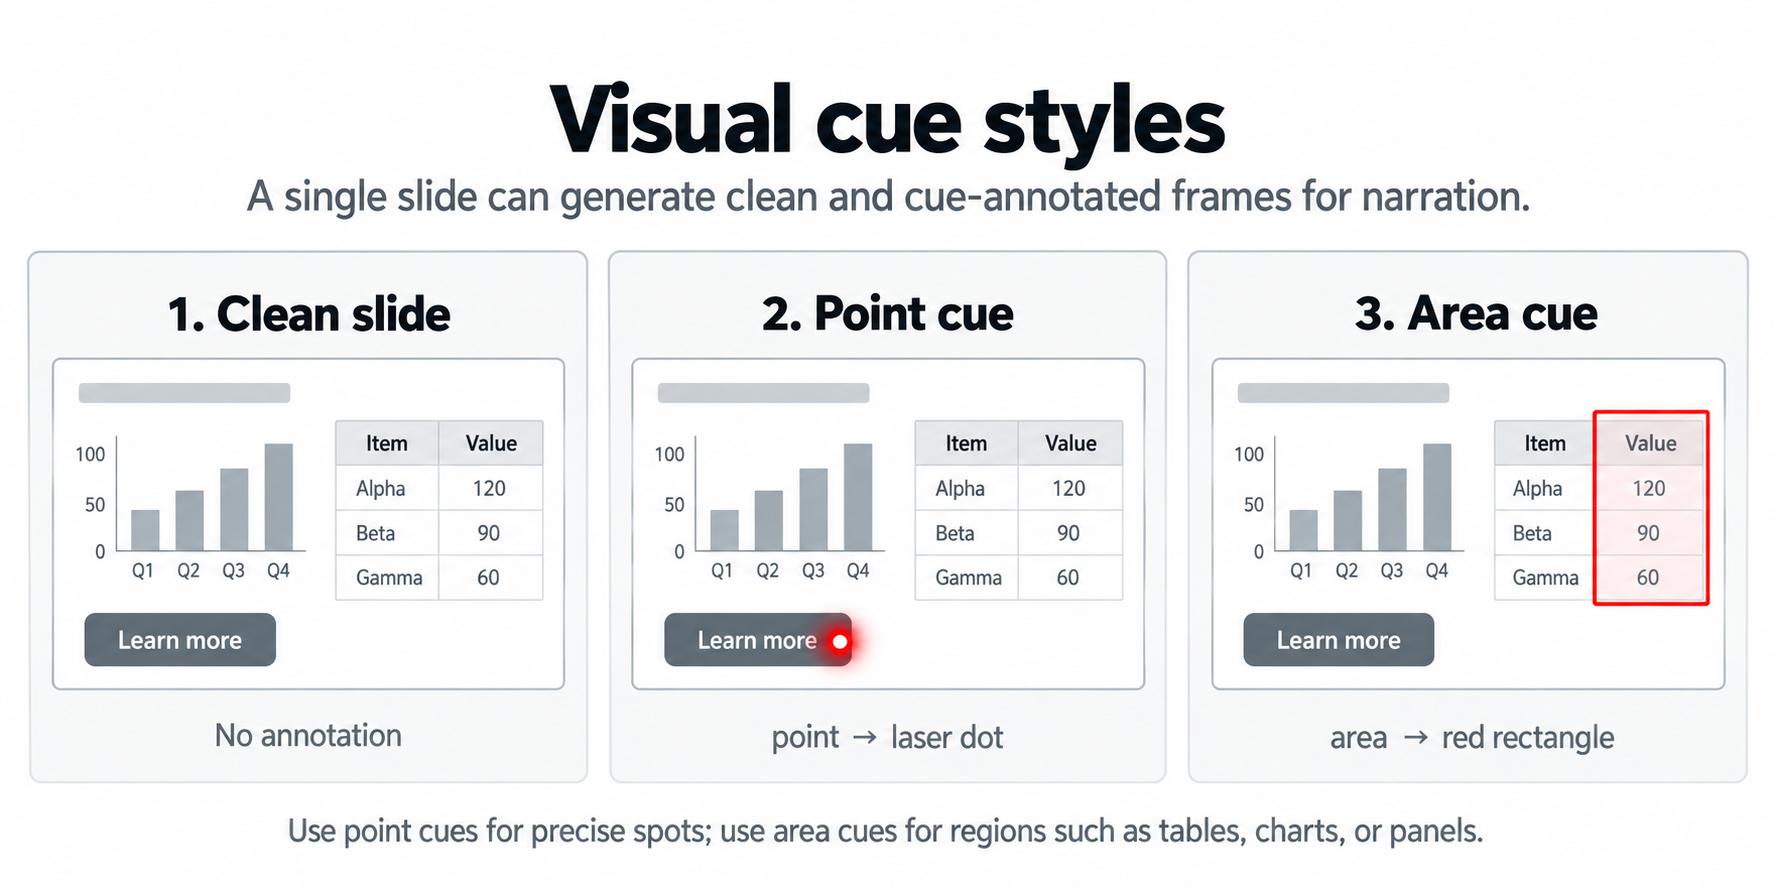
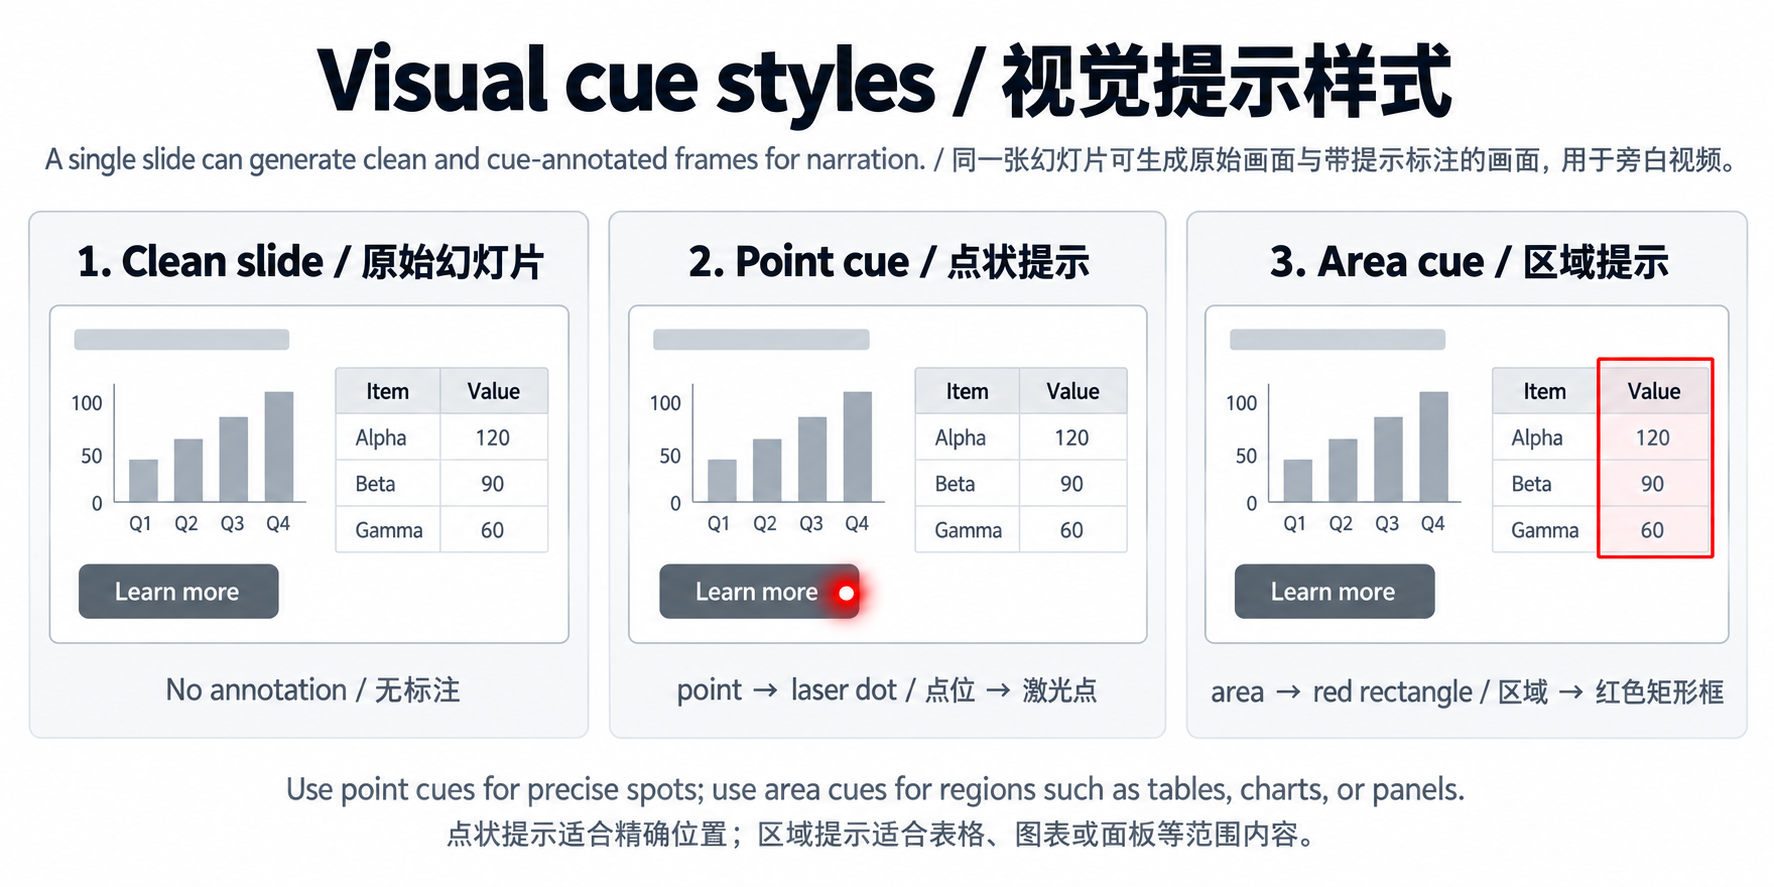
docs: add bilingual workflow diagrams

diff --git a/README.md b/README.md
@@ -12,6 +12,8 @@
 - 合成前先检查旁白、锚点和提示图；确认后才调用 TTS。
 - 所有画面和音频只经过一次 ffmpeg 编码，减少翻页闪烁和时间戳问题。
 
+![工作流程：从 PPTX/PDF 到带旁白的视频](assets/pipeline.png)
+
 ## 安装
 
 如果你通过 MiMoCode 使用本项目，直接发送：
@@ -85,6 +87,12 @@ python scripts/annotate_slides.py build/slides build/visual_notes.yaml build/cue
 - `build/cues/`：红点或红框是否覆盖了正确位置。
 
 发现问题就修改这三个文件，再重新运行第 3 步。
+
+提示样式和 cue 与音频的绑定方式如下：
+
+![视觉提示样式：原始画面、点状提示和区域提示](assets/cue-styles.png)
+
+![时间轴上的 cue 绑定](assets/cue-timeline.png)
 
 ### 4. 合成语音
 
